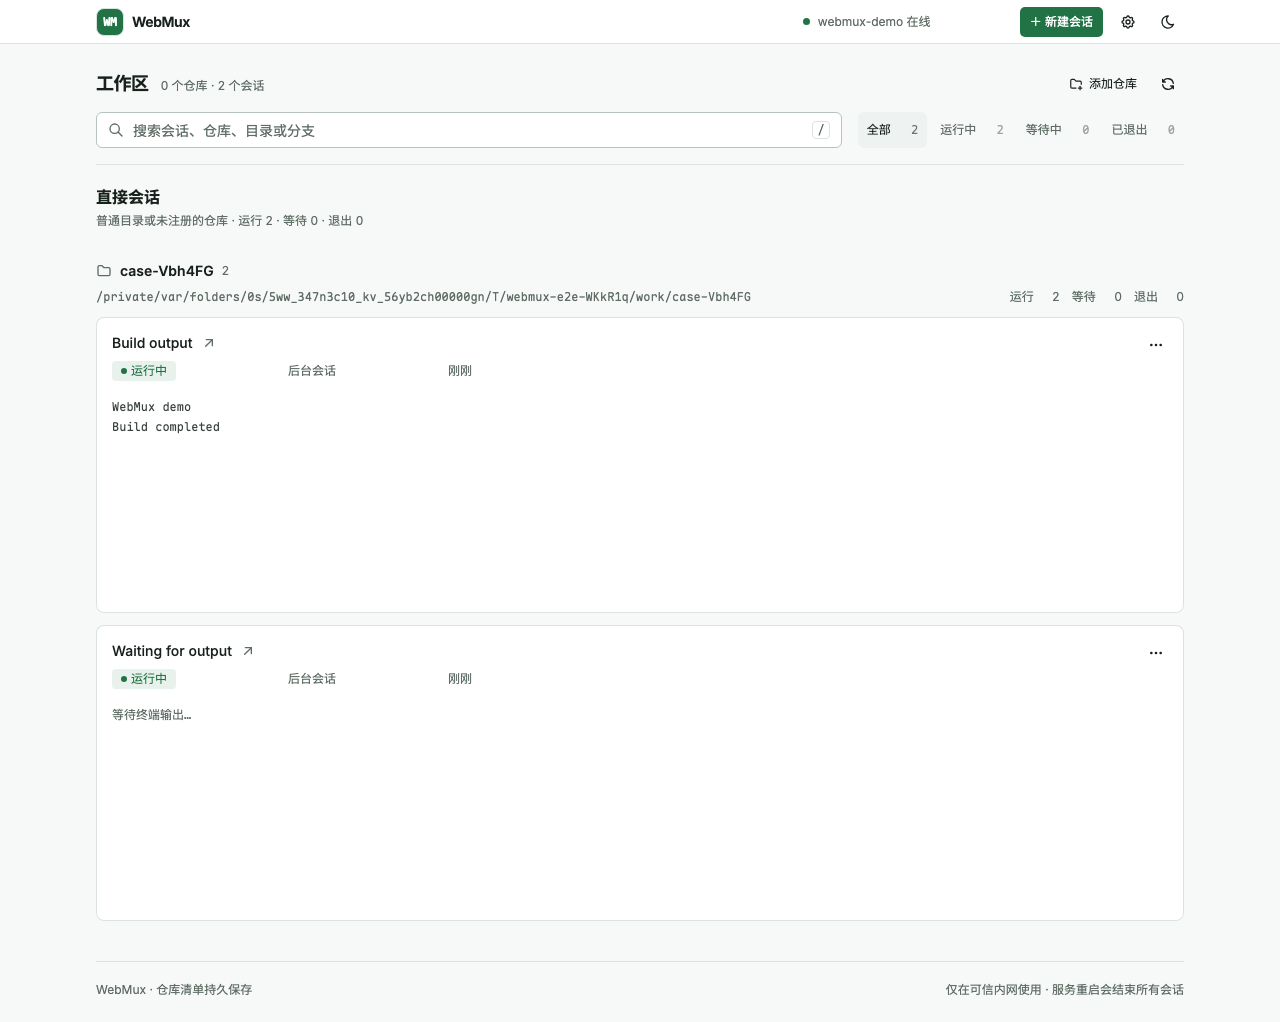
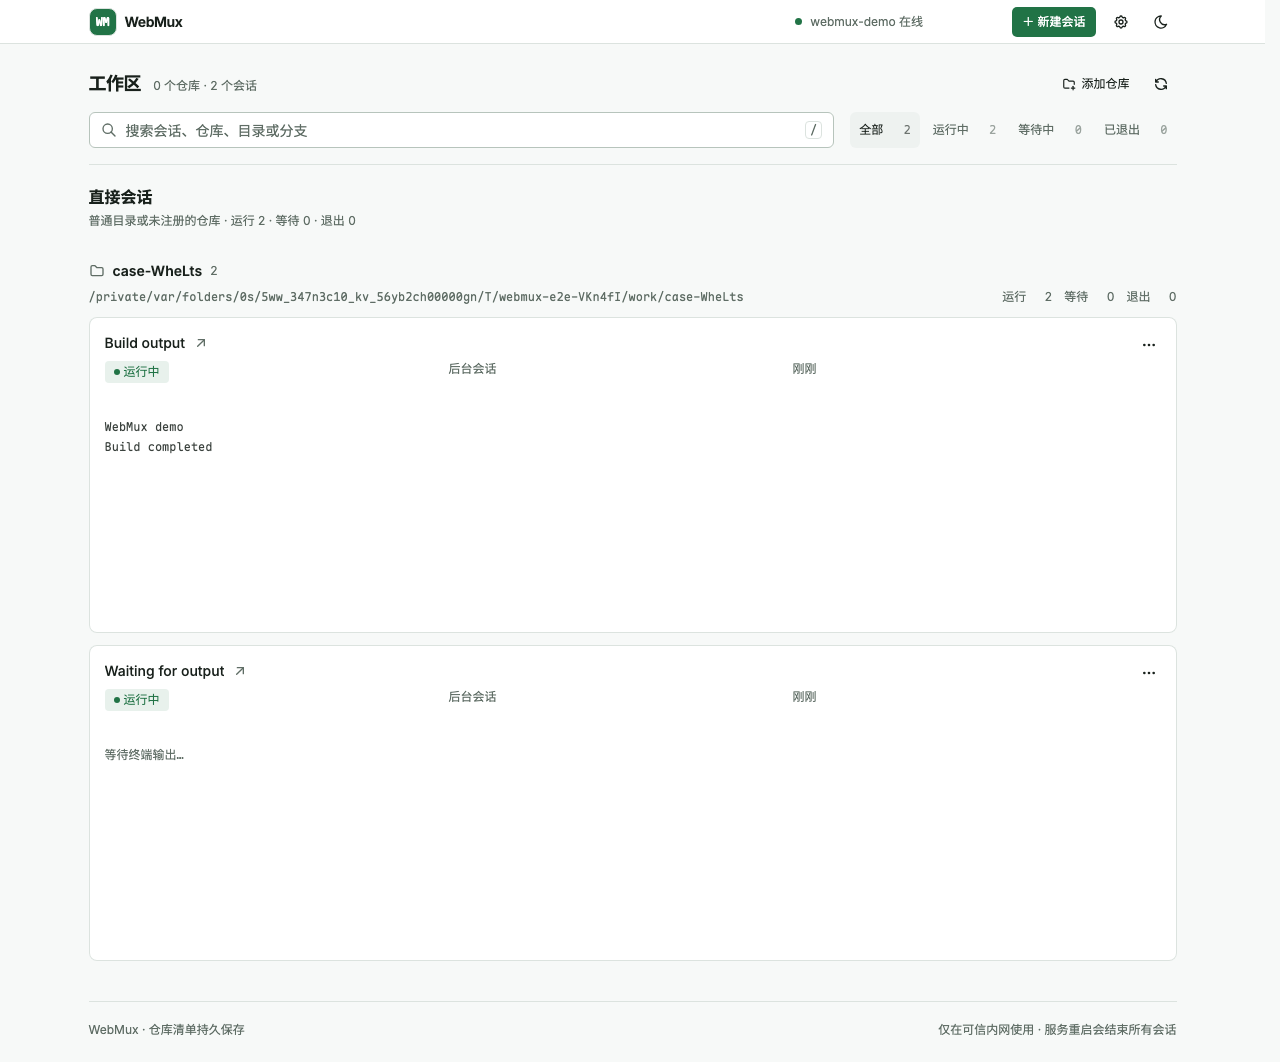
fix(web): preserve reflow and bounded startup under slow Git
Wrap status metadata at narrow widths, keep root scrollbar policy scoped to
the workspace, and reveal the footer after disclosure measurement. Abort
initial optional reads after one second so existing terminals stay usable.

Use native WebSocket teardown in the performance test and refresh UI evidence.

diff --git a/web/src/pages/SessionList.svelte b/web/src/pages/SessionList.svelte
@@ -56,6 +56,7 @@
   let hostname = $state("");
   let loading = $state(true);
   let initializing = $state(true);
+  let footerReady = $state(false);
   let refreshing = $state(false);
   let repositoryError = $state("");
   let capabilityError = $state("");
@@ -87,6 +88,15 @@
   let filterExpanded = $state<Record<string, boolean>>({});
   let refreshGeneration = 0;
   let disposed = false;
+  $effect(() => {
+    if (loading || initializing) return;
+    // Disclosure content measures itself after mount. Reveal the footer once
+    // that first layout has settled instead of painting it at a temporary Y.
+    let frame = requestAnimationFrame(() => {
+      frame = requestAnimationFrame(() => (footerReady = true));
+    });
+    return () => cancelAnimationFrame(frame);
+  });
   const list = $derived(
     [...sessions].sort(
       // Background output must not move the card under the user's pointer.
@@ -186,19 +196,27 @@
     if (repo)
       homeWorktrees.save(setPinned(homeWorktrees.value, repo, ids, pinned));
   }
-  async function refresh() {
+  async function refresh(signal?: AbortSignal) {
     const generation = ++refreshGeneration;
     refreshing = true;
     repositoryError = "";
     try {
-      const result = await api("/repositories", RepositoriesSchema);
+      const result = await api(
+        "/repositories",
+        RepositoriesSchema,
+        "GET",
+        undefined,
+        signal,
+      );
       if (!disposed && generation === refreshGeneration) {
         repositories = result;
         homeWorktrees.save(pruneHomeWorktrees(homeWorktrees.value, result));
       }
     } catch (err) {
       if (!disposed && generation === refreshGeneration)
-        repositoryError = (err as Error).message;
+        repositoryError = signal?.aborted
+          ? "初次读取超时，请重试刷新"
+          : (err as Error).message;
     } finally {
       if (!disposed && generation === refreshGeneration) refreshing = false;
     }
@@ -217,14 +235,14 @@
       unregisterBusy = false;
     }
   }
-  async function loadSetup() {
+  async function loadSetup(signal?: AbortSignal) {
     if (setupBusy) return;
     setupBusy = true;
     const results = await Promise.allSettled([
-      api("/presets", PresetsSchema).then((p) => {
+      api("/presets", PresetsSchema, "GET", undefined, signal).then((p) => {
         if (!disposed) presets = p;
       }),
-      api("/config", ConfigSchema).then((c) => {
+      api("/config", ConfigSchema, "GET", undefined, signal).then((c) => {
         if (disposed) return;
         cwd = c.defaultCwd;
         hostname = c.hostname;
@@ -277,7 +295,15 @@
       attributes: true,
       attributeFilter: ["class"],
     });
-    void Promise.allSettled([loadSetup(), refresh()]).then(() => {
+    // Optional Git discovery must not hold existing terminals behind the
+    // startup skeleton. Abort late reads so they cannot regroup visible cards.
+    const startup = new AbortController();
+    const startupTimeout = setTimeout(() => startup.abort(), 1000);
+    void Promise.allSettled([
+      loadSetup(startup.signal),
+      refresh(startup.signal),
+    ]).then(() => {
+      clearTimeout(startupTimeout);
       if (!disposed) initializing = false;
     });
     const ws = connect(
@@ -322,6 +348,8 @@
     return () => {
       disposed = true;
       ++refreshGeneration;
+      clearTimeout(startupTimeout);
+      startup.abort();
       theme.disconnect();
       ws.close();
       clearInterval(clock);
@@ -395,7 +423,9 @@
             {:else}{repositories.length} 个仓库 · {list.length} 个会话{/if}
           </p>
         </div>
-        <div class="ml-auto flex items-center gap-1">
+        <div
+          class="ml-auto flex max-w-full flex-wrap items-center justify-end gap-1"
+        >
           <Button
             variant="ghost"
             size="sm"
@@ -413,7 +443,7 @@
             title={refreshing ? "正在刷新 Git 状态…" : "刷新 Git 状态"}
             aria-busy={refreshing}
             disabled={refreshing}
-            onclick={refresh}
+            onclick={() => void refresh()}
             ><IconRefresh
               class={refreshing
                 ? "animate-spin motion-reduce:animate-none"
@@ -492,7 +522,7 @@
             size="sm"
             class="min-h-11 sm:min-h-8"
             disabled={setupBusy}
-            onclick={loadSetup}
+            onclick={() => void loadSetup()}
           >
             {setupBusy ? "正在重试…" : "重试"}
           </Button>
@@ -703,7 +733,7 @@
       </div>
     {/if}
     <footer
-      class:invisible={loading || initializing}
+      class:invisible={!footerReady}
       class="mt-10 flex flex-wrap justify-between gap-2 border-t pt-5 text-xs text-muted-foreground"
     >
       <span>WebMux · 仓库清单持久保存</span><span

diff --git a/web/test/performance/performance.spec.ts b/web/test/performance/performance.spec.ts
@@ -133,16 +133,22 @@ test("4x CPU: create, type, replay, switch, filter and open dialogs remain usabl
   page,
   workDir,
 }, testInfo) => {
-  let disconnect: (() => void) | undefined;
-  await page.routeWebSocket("**/ws/s/*", (socket) => {
-    const server = socket.connectToServer();
-    disconnect = () => {
-      socket.close();
-      server.close();
+  await page.addInitScript(() => {
+    // Keep native transport and events. Closing both ends of a Playwright
+    // WebSocket route races its in-flight forwarding on Linux Chromium.
+    const NativeWebSocket = window.WebSocket;
+    let disconnect = () => {};
+    window.WebSocket = class extends NativeWebSocket {
+      constructor(url: string | URL, protocols?: string | string[]) {
+        super(url, protocols);
+        if (new URL(url, location.href).pathname.startsWith("/ws/s/"))
+          disconnect = () => this.close();
+      }
     };
+    window.addEventListener("webmux:test-disconnect", () => disconnect());
   });
   const errors: string[] = [];
-  page.on("pageerror", (error) => errors.push(error.message));
+  page.on("pageerror", (error) => errors.push(error.stack ?? error.message));
   await createShell(page, "CPU 4x shell", workDir);
   await runCommand(page, "printf '\\n%s%s\\n' 'cpu-four-' 'ready'");
   await expectTerminalLine(page, "cpu-four-ready");
@@ -156,8 +162,9 @@ test("4x CPU: create, type, replay, switch, filter and open dialogs remain usabl
   await expect(page.locator(".restore-overlay")).toBeHidden();
   await expectTerminalLine(page, "cpu-four-ready");
   await settled(page);
-  expect(disconnect).toBeDefined();
-  disconnect!();
+  await page.evaluate(() =>
+    window.dispatchEvent(new Event("webmux:test-disconnect")),
+  );
   await expect(page.locator(".terminal-header").getByRole("status")).toHaveText(
     "重连中",
   );
@@ -260,6 +267,40 @@ test("4x CPU: delayed repository discovery and Git refresh stay stable", async (
     .click();
   await expect(page.getByText("有修改", { exact: true })).toBeVisible();
   await performanceReport(page, testInfo, "repository-and-refresh");
+});
+
+test("4x CPU: a stalled repository request cannot block existing terminals", async ({
+  page,
+  request,
+  workDir,
+}, testInfo) => {
+  const created = await request.post("/api/sessions", {
+    data: { preset: "shell", name: "Always reachable", cwd: workDir },
+  });
+  expect(created.status()).toBe(201);
+  const held = Promise.withResolvers<void>();
+  await page.route("**/api/repositories", async (route) => {
+    await held.promise;
+    await route.continue().catch(() => {});
+  });
+  try {
+    await page.goto("/");
+    const session = page.getByRole("link", {
+      name: "Always reachable",
+      exact: true,
+    });
+    await expect(session).toBeVisible({ timeout: 5000 });
+    await expect(page.getByText(/初次读取超时，请重试刷新/)).toBeVisible();
+    await performanceReport(page, testInfo, "repository-timeout");
+    // The repository response remains held while the real PTY is opened and
+    // typed into. A late response must not be needed for terminal access.
+    await session.click();
+    await expect(page.locator(".restore-overlay")).toBeHidden();
+    await runCommand(page, "printf '\\n%s%s\\n' 'still-' 'reachable'");
+    await expectTerminalLine(page, "still-reachable");
+  } finally {
+    held.resolve();
+  }
 });
 
 test("4x CPU: settings and a large code file stay usable and stable", async ({

diff --git a/web/src/components/SessionStatus.svelte b/web/src/components/SessionStatus.svelte
@@ -22,13 +22,17 @@
 
 <Badge
   {variant}
-  class="max-w-full justify-self-start"
+  class="h-auto min-h-5 max-w-full items-start justify-self-start whitespace-normal"
   data-slot="session-status"
   data-tone={variant}
 >
-  <span class="size-1.5 shrink-0 rounded-full bg-current" aria-hidden="true"
+  <span
+    class="mt-[0.3125rem] size-1.5 shrink-0 rounded-full bg-current"
+    aria-hidden="true"
   ></span>
-  {sessionStatusText(session)}{session.exitCode !== null
-    ? ` · code ${session.exitCode}`
-    : ""}
+  <span class="min-w-0 break-words"
+    >{sessionStatusText(session)}{session.exitCode !== null
+      ? ` · code ${session.exitCode}`
+      : ""}</span
+  >
 </Badge>

diff --git a/web/src/components/SessionRow.svelte b/web/src/components/SessionRow.svelte
@@ -66,7 +66,7 @@
         />
       </Item.Title>
       <div
-        class="mt-2 grid grid-cols-2 items-center gap-x-4 gap-y-1 text-xs text-muted-foreground sm:grid-cols-[10rem_9rem_1fr]"
+        class="mt-2 grid auto-rows-[minmax(2.5rem,auto)] grid-cols-[repeat(auto-fit,minmax(min(100%,8rem),1fr))] items-start gap-x-4 gap-y-1 text-xs text-muted-foreground"
       >
         <SessionStatus {session} />
         <span

diff --git a/web/src/styles.css b/web/src/styles.css
@@ -28,8 +28,10 @@
   html {
     @apply font-sans;
     font-synthesis-weight: none;
+  }
+  html:has(.workspace-page) {
     /* Keep the root track even where custom/overlay scrollbars do not reserve
-       a stable gutter. The full-screen terminal overrides overflow inline. */
+       a stable gutter. Keep this policy scoped to the workspace document. */
     overflow-y: scroll;
     scrollbar-gutter: stable;
   }

diff --git a/docs/performance.md b/docs/performance.md
@@ -12,7 +12,7 @@
 
 ## 覆盖范围
 
-12 个用例覆盖浅色/深色冷启动、后台输出和状态更新、新建 Shell、输入、刷新回放、真实 WebSocket 断开和重连、输出突发、草稿开关、弹窗、会话筛选和切换、延迟仓库发现和 Git 刷新、设置页及 3000 行代码文件滚动。
+14 个用例覆盖浅色/深色冷启动、后台输出和状态更新、新建 Shell、输入、刷新回放、真实 WebSocket 断开和重连、输出突发、草稿开关、弹窗、会话筛选和切换、延迟仓库发现和 Git 刷新、仓库读取挂起时进入已有终端、设置页及 3000 行代码文件滚动。
 
 结果和截图写入 `web/test-results/performance/`，HTML 报告写入 `web/playwright-report/performance/`。CI 的独立性能任务将这些文件作为 `performance-results` 上传，并计入 `Test result`。
 
@@ -20,7 +20,9 @@
 
 预览区域始终保留配置行数的高度，包括尚无输出的会话；会话按创建时间排列，后台活跃更新不会重新排序。状态和计数预留固定位置，初始化结束后再显示页脚。UI 字体使用 `font-display: optional`，慢下载时继续使用回退字体，避免迟到替换改变尺寸。终端仍显式等待自己的字体测量。
 
-根区域保留纵向滚动轨道并设置稳定 gutter；全屏终端继续由其原有生命周期控制 overflow。这样也覆盖只设置 `scrollbar-gutter: stable` 仍不能为 custom/overlay 滚动条预留空间的情况。
+首次启动配置与仓库读取最多等待 1 秒；超时会中止初次请求、显示已有会话并提供重试入口。这样慢仓库不会长时间阻挡终端，也不会在超时后突然按迟到的仓库信息重新分组。
+
+工作区根区域保留纵向滚动轨道并设置稳定 gutter；全屏终端继续由其原有生命周期控制 overflow。这样也覆盖只设置 `scrollbar-gutter: stable` 仍不能为 custom/overlay 滚动条预留空间的情况，并避免影响独立组件和其他页面的滚动区域。
 
 ## 限制
 

diff --git a/docs/usage.md b/docs/usage.md
@@ -4,7 +4,7 @@
 
 首页按「仓库 → 工作树 → 会话」分组：
 
-- 仓库按登记顺序排列，可折叠；工作树按路径排列，组内会话按最近活跃时间排序。
+- 仓库按登记顺序排列，可折叠；工作树按路径排列，组内会话按创建时间倒序排列。
 - 每个仓库只在首页显示“已添加到主页”的工作树：默认只有主工作区，通过页面新建的 worktree 自动添加。点仓库旁的「添加已有 worktree」可搜索并多选其余工作树；工作树菜单中的「从主页移除」只是不再显示，不会删除工作树。有会话的工作树始终显示，未添加的会标注「未添加到主页」。这项选择保存在当前浏览器中，不在设备间同步。
 - 未关联已登记仓库的会话显示在「直接会话」中；工作树已失效的会话保留在「已不可用工作区」。
 - 每个会话行显示标题、状态、最近活跃时间、连接设备数和终端屏幕预览，并按状态着色背景。
